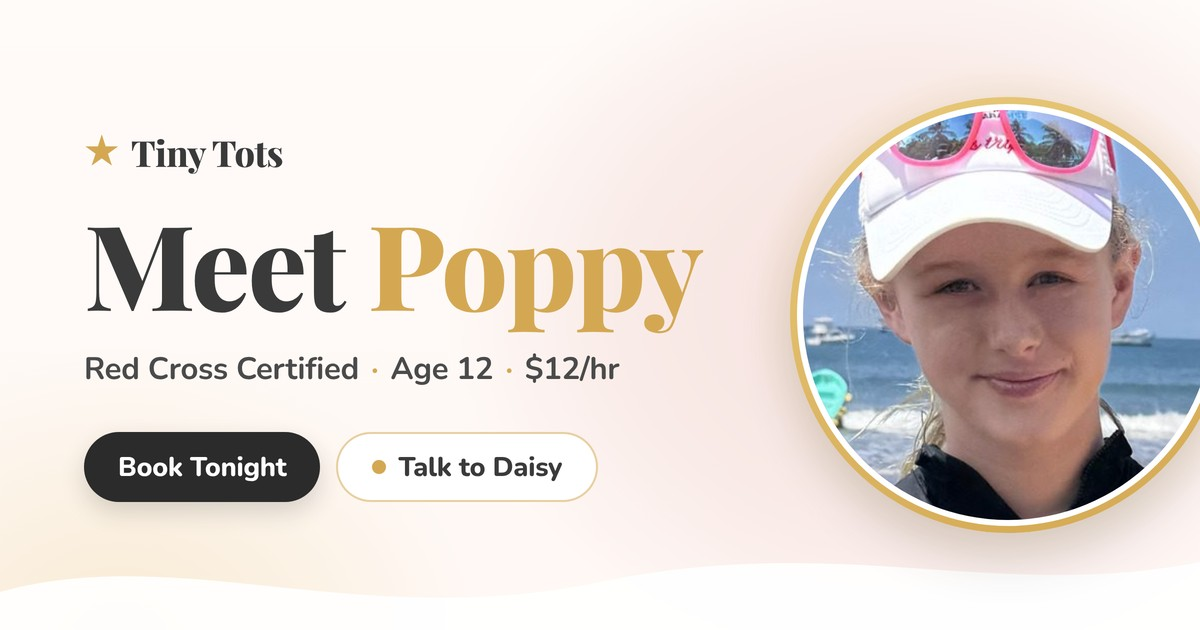
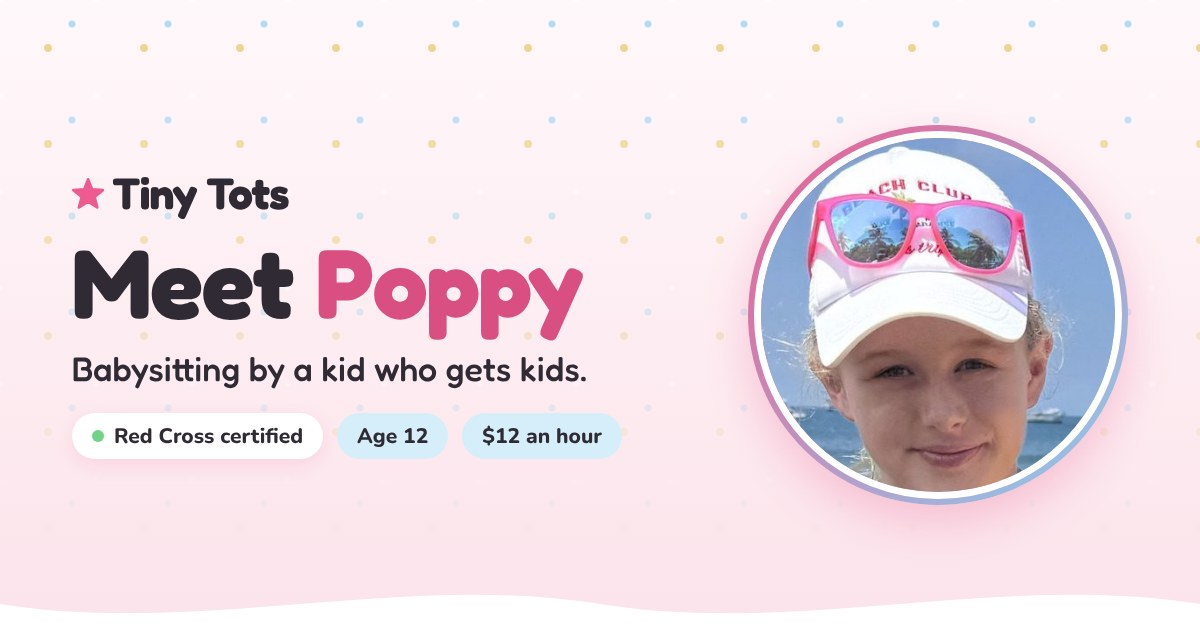
Marin County home base, Truckee ski days on request, new link preview image

diff --git a/tiny-tots-site/index.html b/tiny-tots-site/index.html
@@ -8,20 +8,20 @@
 <meta name="apple-mobile-web-app-capable" content="yes">
 <meta name="apple-mobile-web-app-status-bar-style" content="default">
 <link rel="manifest" href="data:application/manifest+json,%7B%22name%22%3A%22Tiny%20Tots%22%2C%22short_name%22%3A%22Tiny%20Tots%22%2C%22start_url%22%3A%22%2F%22%2C%22display%22%3A%22standalone%22%2C%22background_color%22%3A%22%23FFF8F5%22%2C%22theme_color%22%3A%22%23FFF8F5%22%2C%22icons%22%3A%5B%7B%22src%22%3A%22data%3Aimage%2Fsvg%2Bxml%2C%253Csvg%20xmlns%3D%27http%3A%2F%2Fwww.w3.org%2F2000%2Fsvg%27%20viewBox%3D%270%200%20100%20100%27%253E%253Ccircle%20cx%3D%2750%27%20cy%3D%2750%27%20r%3D%2748%27%20fill%3D%27%23D4A853%27%2F%253E%253Ctext%20x%3D%2750%25%27%20y%3D%2758%25%27%20text-anchor%3D%27middle%27%20font-size%3D%2746%27%20fill%3D%27white%27%253ETT%253C%2Ftext%253E%253C%2Fsvg%253E%22%2C%22sizes%22%3A%22any%22%2C%22type%22%3A%22image%2Fsvg%2Bxml%22%7D%5D%7D">
-<meta name="description" content="Poppy Wilbert, age 12, Red Cross certified babysitter in North Lake Tahoe. See her open days, book in a minute, or ask Daisy, her AI assistant.">
+<meta name="description" content="Poppy Wilbert, age 12, Red Cross certified babysitter in Marin County. See her open days and book in a minute, or ask Daisy, her assistant. Ski days in Truckee on request.">
 <!-- Open Graph — beautiful previews on iMessage, WhatsApp, Instagram, Twitter -->
 <meta property="og:title" content="Meet Poppy, Tiny Tots Babysitting">
 <meta property="og:description" content="Red Cross certified, age 12, $12 an hour. See Poppy's open days and book in a minute.">
-<meta property="og:image" content="https://tinytots-v2.netlify.app/og-image.jpg">
+<meta property="og:image" content="https://tinytots-v2.netlify.app/og-image.jpg?v=3">
 <meta property="og:image:width" content="1200">
 <meta property="og:image:height" content="630">
-<meta property="og:image:alt" content="Meet Poppy. Tiny Tots babysitting: Red Cross certified, age 12, $12/hr.">
+<meta property="og:image:alt" content="Meet Poppy. Tiny Tots babysitting: Red Cross certified, age 12, $12 an hour.">
 <meta property="og:url" content="https://tinytots-v2.netlify.app">
 <meta property="og:type" content="website">
 <meta name="twitter:card" content="summary_large_image">
 <meta name="twitter:title" content="Meet Poppy, Tiny Tots Babysitting">
 <meta name="twitter:description" content="Red Cross certified, age 12, $12 an hour. See Poppy's open days and book in a minute.">
-<meta name="twitter:image" content="https://tinytots-v2.netlify.app/og-image.jpg">
+<meta name="twitter:image" content="https://tinytots-v2.netlify.app/og-image.jpg?v=3">
 <link rel="preconnect" href="https://fonts.googleapis.com">
 <link rel="preconnect" href="https://fonts.gstatic.com" crossorigin>
 <link rel="preconnect" href="https://udhgdtiezzzudczckaaw.supabase.co">
@@ -3655,6 +3655,16 @@ body, body.dark-mode { background: var(--warm); color: var(--charcoal); font-fam
 .toast { background: var(--charcoal); color: var(--white); border-radius: 999px; font-weight: 700; }
 .toast.warn { background: var(--bubble-dark); }
 
+/* ─── Ski days ─── */
+.v3-ski { background: var(--sky); border-radius: 18px; padding: 16px 18px; margin-top: 8px; }
+.v3-ski h3 { font-size: 18px; margin-bottom: 2px; }
+.v3-ski p { font-size: 15px; margin: 0 0 8px; color: var(--charcoal); }
+.v3-price-alt { display: flex; align-items: center; justify-content: space-between; gap: 14px; flex-wrap: wrap; background: var(--white); border: 2px solid var(--sky); border-radius: 20px; padding: 16px 18px; margin-top: 12px; }
+.v3-price-alt .alt-amount { font-family: var(--font-display); font-weight: 700; font-size: 30px; line-height: 1; color: var(--charcoal); font-variant-numeric: tabular-nums; }
+.v3-price-alt .alt-amount small { font-size: 15px; font-weight: 600; color: var(--bubble-dark); margin-left: 4px; }
+.v3-price-alt .alt-label { font-size: 14px; font-weight: 700; color: var(--gray); margin-top: 4px; }
+.v3-price-alt .v3-btn { height: 46px; font-size: 16px; padding: 0 20px; }
+
 /* ─── Fit and finish ─── */
 .book-guest .form-row { flex-direction: column; gap: 10px; }
 @media (min-width: 480px) { .book-guest .form-row { flex-direction: row; } }
@@ -3699,17 +3709,25 @@ section[id], .v3-section, .avail-section { scroll-margin-top: calc(var(--nav-h) 
   "description": "Babysitting by Poppy Wilbert, age 12, Red Cross certified. $12 an hour. See her open days and book online, or ask Daisy, her assistant.",
   "url": "https://tinytots-v2.netlify.app",
   "priceRange": "$12 an hour",
-  "areaServed": "North Lake Tahoe, California",
+  "areaServed": ["Marin County, California", "Truckee, California"],
   "openingHoursSpecification": [
     { "@type": "OpeningHoursSpecification", "dayOfWeek": ["Tuesday", "Thursday"], "opens": "15:45", "closes": "20:00" },
     { "@type": "OpeningHoursSpecification", "dayOfWeek": "Saturday", "opens": "16:00", "closes": "23:00" }
   ],
-  "makesOffer": {
-    "@type": "Offer",
-    "itemOffered": { "@type": "Service", "name": "Babysitting", "description": "In-home babysitting, Red Cross certified" },
-    "price": "12.00", "priceCurrency": "USD",
-    "priceSpecification": { "@type": "UnitPriceSpecification", "price": "12.00", "priceCurrency": "USD", "unitCode": "HUR" }
-  }
+  "makesOffer": [
+    {
+      "@type": "Offer",
+      "itemOffered": { "@type": "Service", "name": "Babysitting", "description": "In-home babysitting in Marin County, Red Cross certified", "areaServed": "Marin County, California" },
+      "price": "12.00", "priceCurrency": "USD",
+      "priceSpecification": { "@type": "UnitPriceSpecification", "price": "12.00", "priceCurrency": "USD", "unitCode": "HUR" }
+    },
+    {
+      "@type": "Offer",
+      "itemOffered": { "@type": "Service", "name": "Ski day", "description": "Ski nanny for the day in Truckee, on request", "areaServed": "Truckee, California" },
+      "price": "150.00", "priceCurrency": "USD",
+      "priceSpecification": { "@type": "UnitPriceSpecification", "price": "150.00", "priceCurrency": "USD", "unitCode": "DAY" }
+    }
+  ]
 }
 </script>
 </head>
@@ -3910,10 +3928,10 @@ section[id], .v3-section, .avail-section { scroll-margin-top: calc(var(--nav-h) 
   <div class="v3-about">
     <img class="v3-about-photo" src="poppy-photo.jpg" alt="Poppy Wilbert at the lake" loading="lazy" decoding="async" width="404" height="505">
     <div>
-      <div class="meta">Age 12 &middot; North Lake Tahoe &middot; Red Cross certified</div>
-      <p>Poppy is a mountain kid who skis, hikes, and has babysat since she was ten. She is good with everyone from toddlers to fourth graders, and she arrives with a plan: a craft, a game, something outside, and a book before bed.</p>
-      <p>Parents get a straight answer and a kid who asks when she is coming back.</p>
-      <div class="v3-quote">My favorite part is when a shy kid finally laughs so hard they can't stop.<small>Poppy</small></div>
+      <div class="meta">Age 12 &middot; Marin County &middot; Red Cross certified</div>
+      <p>Poppy is twelve, lives in Marin County, and skis. She is Red Cross certified and arrives with a plan: a craft, a game, something outside, and a book before bed.</p>
+      <p>Parents get a straight answer, a text when they want one, and a kid who had a good afternoon.</p>
+      <div class="v3-ski"><h3>Ski days in Truckee</h3><p>Heading up for the weekend? Poppy can come along as a ski nanny, on request. $150 a day.</p><a class="v3-link" href="#" onclick="return openTextPoppy(event, 'Hi Poppy, we would like a ski day in Truckee. Dates: ')">Ask about a ski day</a></div>
     </div>
   </div>
 </section>
@@ -3941,6 +3959,10 @@ section[id], .v3-section, .avail-section { scroll-margin-top: calc(var(--nav-h) 
       <a class="v3-link" href="#avail" onclick="scrollToSection('#avail'); return false;">Book a day</a>
     </div>
   </div>
+  <div class="v3-price-alt">
+    <div><div class="alt-amount">$150<small>a day</small></div><div class="alt-label">Ski days in Truckee, on request</div></div>
+    <a class="v3-btn white" href="#" onclick="return openTextPoppy(event, 'Hi Poppy, we would like a ski day in Truckee. Dates: ')">Text Poppy</a>
+  </div>
 </section>
 <!-- ═══ FAQ ═══ -->
 <section class="v3-section faq-section" id="faq" aria-label="Questions parents ask">
@@ -3964,6 +3986,10 @@ section[id], .v3-section, .avail-section { scroll-margin-top: calc(var(--nav-h) 
       <div class="faq-a-wrap"><div class="faq-a">Text Poppy before the sit starts. No fee. Rebooking takes a minute.</div></div>
     </div>
     <div class="faq-item" role="listitem">
+      <button class="faq-q" onclick="toggleFaq(this)" aria-expanded="false">Does Poppy do ski days in Truckee?<svg class="faq-chevron" viewBox="0 0 24 24"><path d="M7.41 8.59L12 13.17l4.59-4.58L18 10l-6 6-6-6z"/></svg></button>
+      <div class="faq-a-wrap"><div class="faq-a">Yes, on request. $150 a day. Text Poppy with the dates and she will confirm.</div></div>
+    </div>
+    <div class="faq-item" role="listitem">
       <button class="faq-q" onclick="toggleFaq(this)" aria-expanded="false">How do we pay?<svg class="faq-chevron" viewBox="0 0 24 24"><path d="M7.41 8.59L12 13.17l4.59-4.58L18 10l-6 6-6-6z"/></svg></button>
       <div class="faq-a-wrap"><div class="faq-a">At pickup. Apple Cash through Messages (the Pay Poppy button opens the thread with the amount filled in), or cash.</div></div>
     </div>
@@ -3974,7 +4000,7 @@ section[id], .v3-section, .avail-section { scroll-margin-top: calc(var(--nav-h) 
   <div class="v3-invite">
     <p class="v3-eyebrow">Invite</p>
     <h2 class="v3-h2">Know a family that needs Poppy?</h2>
-    <p>Send them the link. One text is how every one of Poppy's families found her.</p>
+    <p>Send them the link. Daisy does the rest.</p>
     <div class="v3-invite-actions">
       <button class="v3-btn pink" onclick="shareViaText()">Text a friend</button>
       <button class="v3-btn white" id="copyLinkBtn" onclick="copyInviteLink()"><span id="copyLinkText">Copy link</span></button>
@@ -3987,7 +4013,7 @@ section[id], .v3-section, .avail-section { scroll-margin-top: calc(var(--nav-h) 
 </main>
 <footer class="v3-footer" id="footer">
   <div class="wm"><svg class="tt-star" aria-hidden="true"><use href="#tt-star"/></svg>Tiny Tots</div>
-  <div>Poppy Wilbert &middot; North Lake Tahoe, California</div>
+  <div>Poppy Wilbert &middot; Marin County, California &middot; Ski days in Truckee on request</div>
   <div>tinytotsbabysitting.com</div>
 </footer>
 
@@ -6206,6 +6232,13 @@ function payPoppyLink(amountLabel) {
   const body = 'Hi Poppy! Sending ' + (amountLabel ? amountLabel + ' ' : 'your babysitting payment ') + 'with Apple Cash';
   const sep = /android/i.test(navigator.userAgent) ? '?' : '&';
   return 'sms:' + POPPY_PAY_NUMBER + sep + 'body=' + encodeURIComponent(body);
+}
+function openTextPoppy(ev, body) {
+  if (ev) ev.preventDefault();
+  if (!POPPY_PAY_NUMBER) return false;
+  const sep = /android/i.test(navigator.userAgent) ? '?' : '&';
+  window.location.href = 'sms:' + POPPY_PAY_NUMBER + sep + 'body=' + encodeURIComponent(body);
+  return false;
 }
 function openPayPoppy(ev, amountLabel) {
   if (ev) ev.preventDefault();
